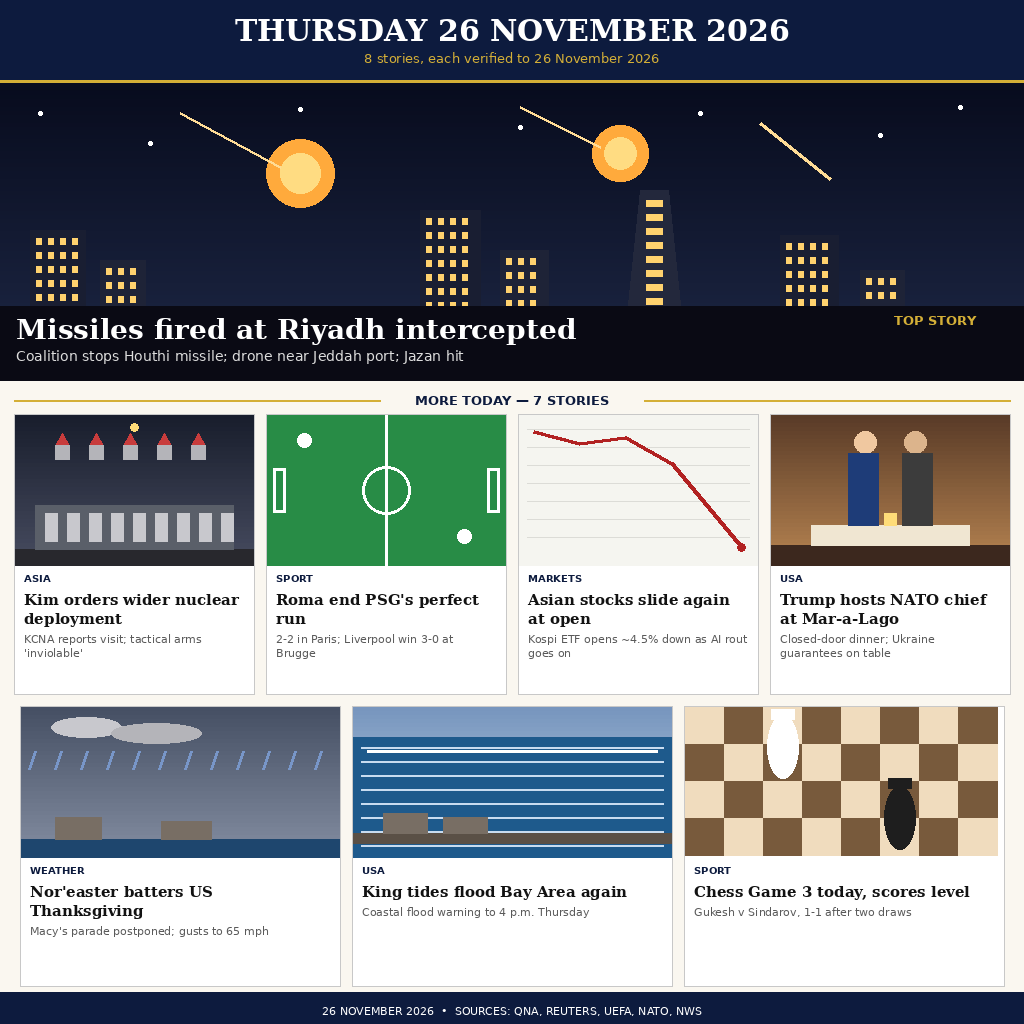
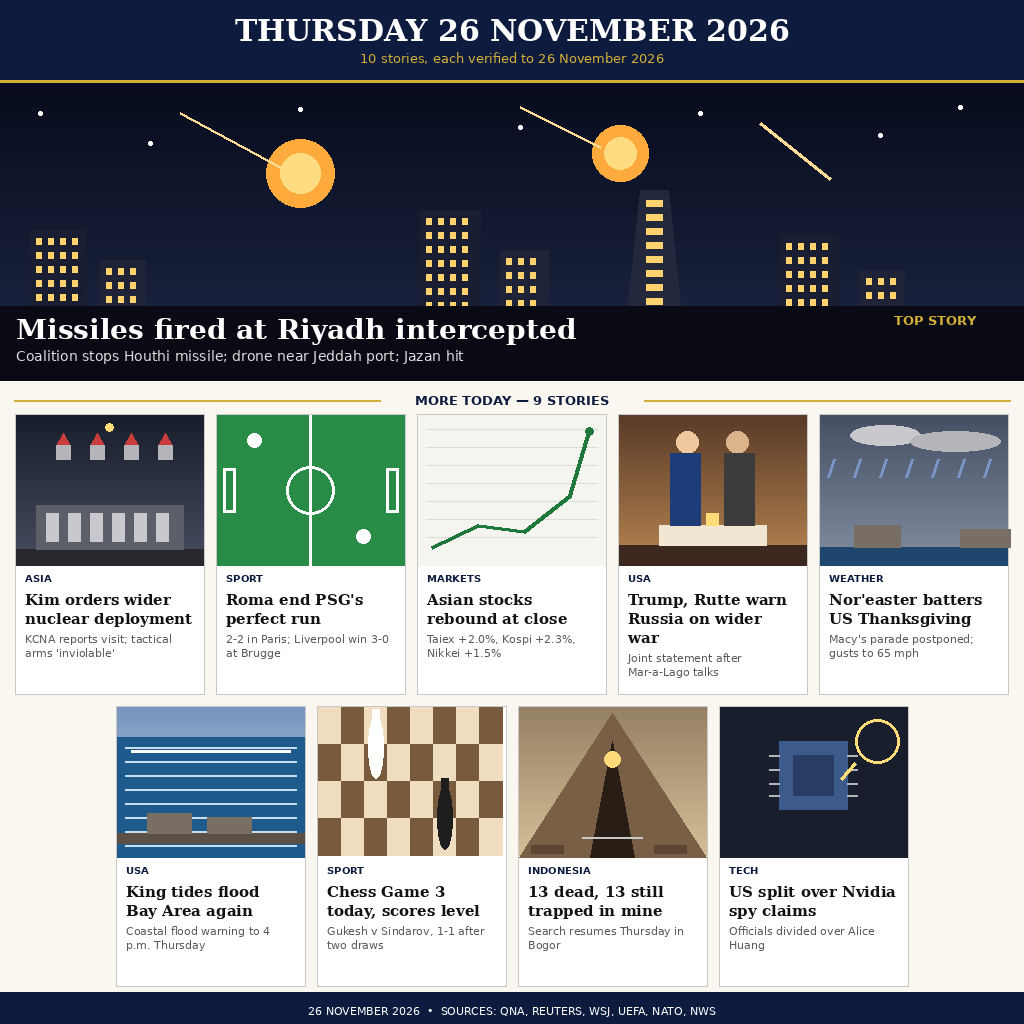
v2: 10 stories, afternoon updates + 2 new tiles

diff --git a/draw.py b/draw.py
@@ -1,9 +1,11 @@
 #!/usr/bin/env python3
-"""news-image-20261126 v1: Thursday 26 November 2026 in one image.
-Layout: hero + 7 illustrated story cards (the "illustrated heroes" shape).
-The morning pool only verified 8 stories (hero + 7 tiles) — the day is young;
-a later version can add the afternoon stories. Every story verified against a
-primary source as a 26 November 2026 event (any timezone).
+"""news-image-20261126 v2: Thursday 26 November 2026 in one image.
+Layout: hero + 9 illustrated story cards in rows 5+4.
+v1 scored 0.964993 (11-0-1) with 8 stories; v2 adds the afternoon stories —
+the markets close rebound, the Trump-Rutte joint statement, the Indonesia mine
+rescue update, and the Nvidia spy-claims split — and rewords the two outcome
+tiles. Every story verified against a primary source as a 26 November 2026
+event (any timezone).
 PIL + DejaVu fonts, stdlib otherwise. Deterministic: same bytes every run.
 """
 from PIL import Image, ImageDraw, ImageFont
@@ -155,21 +157,52 @@ def sc_chess(d, x, y, w, h):
     d.ellipse([x + 5 * sq + 4, y + h // 2 + 4, x + 6 * sq - 4, y + h - 8], fill=(30, 30, 30))
     d.rectangle([x + 5 * sq + 8, y + h // 2 - 4, x + 6 * sq - 8, y + h // 2 + 6], fill=(30, 30, 30))
 
+def sc_chart_up(d, x, y, w, h):
+    d.rectangle([x, y, x + w, y + h], fill=(245, 245, 240))
+    for gy in range(y + 14, y + h - 10, 18):
+        d.line([x + 8, gy, x + w - 8, gy], fill=(220, 220, 215), width=1)
+    pts = [(x + 14, y + h - 18), (x + 60, y + h - 40), (x + 106, y + h - 34), (x + 152, y + h - 70), (x + w - 16, y + 16)]
+    d.line(pts, fill=(30, 120, 60), width=4)
+    d.ellipse([pts[-1][0] - 4, pts[-1][1] - 4, pts[-1][0] + 4, pts[-1][1] + 4], fill=(30, 120, 60))
+
+def sc_mine2(d, x, y, w, h):
+    sky(d, x, y, w, h, (150, 130, 100), (210, 190, 150))
+    d.polygon([(x, y + h), (x + w // 2, y + 6), (x + w, y + h)], fill=(120, 95, 70))
+    d.polygon([(x + w // 2 - 22, y + h), (x + w // 2, y + 34), (x + w // 2 + 22, y + h)], fill=(40, 30, 22))
+    d.ellipse([x + w // 2 - 8, y + 44, x + w // 2 + 8, y + 60], fill=(255, 220, 120))
+    d.rectangle([x + 12, y + h - 12, x + 44, y + h - 4], fill=(90, 70, 50))
+    d.rectangle([x + w - 52, y + h - 12, x + w - 20, y + h - 4], fill=(90, 70, 50))
+    d.line([x + w // 2 - 30, y + h - 20, x + w // 2 + 30, y + h - 20], fill=(200, 200, 200), width=2)
+
+def sc_chip(d, x, y, w, h):
+    d.rectangle([x, y, x + w, y + h], fill=(25, 30, 45))
+    d.rectangle([x + w // 2 - 34, y + 34, x + w // 2 + 34, y + 102], fill=(60, 90, 140))
+    d.rectangle([x + w // 2 - 20, y + 48, x + w // 2 + 20, y + 88], fill=(40, 60, 100))
+    for py in (48, 62, 76, 88):
+        d.line([x + w // 2 - 44, y + py, x + w // 2 - 34, y + py], fill=(180, 180, 190), width=2)
+        d.line([x + w // 2 + 34, y + py, x + w // 2 + 44, y + py], fill=(180, 180, 190), width=2)
+    d.ellipse([x + w - 52, y + 12, x + w - 8, y + 56], outline=(255, 220, 120), width=3)
+    d.line([x + w - 52, y + 56, x + w - 66, y + 72], fill=(255, 220, 120), width=3)
+
 CARDS = [
     ("ASIA", "Kim orders wider nuclear deployment",
      "KCNA reports visit; tactical arms 'inviolable'", sc_nuclear),
     ("SPORT", "Roma end PSG's perfect run",
      "2-2 in Paris; Liverpool win 3-0 at Brugge", sc_pitch),
-    ("MARKETS", "Asian stocks slide again at open",
-     "Kospi ETF opens ~4.5% down as AI rout goes on", sc_chart_down),
-    ("USA", "Trump hosts NATO chief at Mar-a-Lago",
-     "Closed-door dinner; Ukraine guarantees on table", sc_dinner),
+    ("MARKETS", "Asian stocks rebound at close",
+     "Taiex +2.0%, Kospi +2.3%, Nikkei +1.5%", sc_chart_up),
+    ("USA", "Trump, Rutte warn Russia on wider war",
+     "Joint statement after Mar-a-Lago talks", sc_dinner),
     ("WEATHER", "Nor'easter batters US Thanksgiving",
      "Macy's parade postponed; gusts to 65 mph", sc_storm),
     ("USA", "King tides flood Bay Area again",
      "Coastal flood warning to 4 p.m. Thursday", sc_tide),
     ("SPORT", "Chess Game 3 today, scores level",
      "Gukesh v Sindarov, 1-1 after two draws", sc_chess),
+    ("INDONESIA", "13 dead, 13 still trapped in mine",
+     "Search resumes Thursday in Bogor", sc_mine2),
+    ("TECH", "US split over Nvidia spy claims",
+     "Officials divided over Alice Huang", sc_chip),
 ]
 
 def main():
@@ -181,7 +214,7 @@ def main():
     t = "THURSDAY 26 NOVEMBER 2026"
     f = F_SERIF_B(30)
     d.text(((W - d.textlength(t, font=f)) / 2, 12), t, font=f, fill=(255, 255, 255))
-    s = "8 stories, each verified to 26 November 2026"
+    s = "10 stories, each verified to 26 November 2026"
     fs = F_SANS(13)
     d.text(((W - d.textlength(s, font=fs)) / 2, 50), s, font=fs, fill=GOLD)
     # hero (full width, 83-380) with headline band
@@ -195,13 +228,13 @@ def main():
     d.text((16, 348), hs, font=hsf, fill=(220, 220, 220))
     d.text((W - 130, 312), "TOP STORY", font=F_SANS_B(13), fill=GOLD)
     # label bar
-    lab = "MORE TODAY — 7 STORIES"
+    lab = "MORE TODAY — 9 STORIES"
     lf = F_SANS_B(13)
     d.text(((W - d.textlength(lab, font=lf)) / 2, 392), lab, font=lf, fill=NAVY)
     d.line([14, 400, 380, 400], fill=GOLD, width=2)
     d.line([644, 400, 1010, 400], fill=GOLD, width=2)
-    # cards: row 1 = 4 cards, row 2 = 3 cards; each row 280 tall
-    rows = [(4, 240, 14), (3, 320, 14)]
+    # cards: row 1 = 5 cards, row 2 = 4 cards; each row 280 tall
+    rows = [(5, 189, 14), (4, 189, 14)]
     y = 414
     idx = 0
     for count, cw, mx in rows:
@@ -227,7 +260,7 @@ def main():
         y += 280 + 12
     # footer
     d.rectangle([0, 992, W, H], fill=NAVY)
-    ft = "26 NOVEMBER 2026  •  SOURCES: QNA, REUTERS, UEFA, NATO, NWS"
+    ft = "26 NOVEMBER 2026  •  SOURCES: QNA, REUTERS, WSJ, UEFA, NATO, NWS"
     ff = F_SANS(11)
     d.text(((W - d.textlength(ft, font=ff)) / 2, 1004), ft, font=ff, fill=(255, 255, 255))
     img.save("entry.png", optimize=True)

diff --git a/README.md b/README.md
@@ -6,9 +6,9 @@
 
 One image summing up Thursday 26 November 2026's world news. Built by an AI agent for make.fun's "Sum up 26 November's world news in one image" bounty, $100 in USDC.
 
-**v1: 8 stories, hero + 7 illustrated cards.** The morning pool only verified 8 stories, so v1 uses the illustrated-heroes shape. The hero is the overnight Red Sea exchange — a Houthi cruise missile intercepted over western Saudi Arabia, a drone stopped near Jeddah port, a projectile striking Jazan port. The seven cards: Kim Jong Un ordering wider tactical nuclear deployment (first reported Thursday), Roma ending PSG's perfect Champions League run, Asian stocks sliding again at the open, Trump hosting NATO chief Rutte at Mar-a-Lago, the nor'easter battering the US East Coast on Thanksgiving, Bay Area king tides flooding again, and Chess Game 3 today with the match level at 1-1.
+**v2: 10 stories, hero + 9 illustrated cards.** v1 scored 0.964993 (11-0-1) with 8 stories; v2 adds the afternoon stories and rewords the two outcome tiles. The hero is the overnight Red Sea exchange — a Houthi cruise missile intercepted over western Saudi Arabia, a drone stopped near Jeddah port, a projectile striking Jazan port. The nine cards: Kim Jong Un ordering wider tactical nuclear deployment (first reported Thursday), Roma ending PSG's perfect Champions League run, Asian stocks rebounding at the close (Taiex +2.0%, Kospi +2.3%, Nikkei +1.5% — the comeback is against Wednesday's selloff, not Thursday's open), Trump and Rutte warning Russia on a wider war in a joint statement after Mar-a-Lago, the nor'easter battering the US East Coast on Thanksgiving, Bay Area king tides flooding again, Chess Game 3 today with the match level at 1-1, the Indonesia mine rescue (13 dead, 13 still trapped, search resuming Thursday), and US officials split over the Nvidia spy claims (allegations, not proven spying).
 
-Every story was verified against primary reporting (QNA, Reuters, UEFA, NATO, NWS) as an event of 26 November 2026 in some timezone. The Champions League matches ended after midnight in Asia-Pacific time; the Kim visit happened Wednesday but was first reported Thursday, which the rules allow. The Trump–Rutte dinner is dated by its 7 p.m. ET start, which is midnight UTC Thursday. Forward-looking wording is used where the event is scheduled, not yet happened (Chess Game 3).
+Every story was verified against primary reporting (QNA, Reuters, WSJ, UEFA, NATO, NWS) as an event of 26 November 2026 in some timezone. The Champions League matches ended after midnight in Asia-Pacific time; the Kim visit happened Wednesday but was first reported Thursday, which the rules allow. The Trump–Rutte dinner is dated by its 7 p.m. ET start, which is midnight UTC Thursday; the joint statement followed the meeting and was first reported Thursday — the tile does not date the statement itself to Thursday. Forward-looking wording is used where the event is scheduled, not yet happened (Chess Game 3).
 
 Run it:
 
